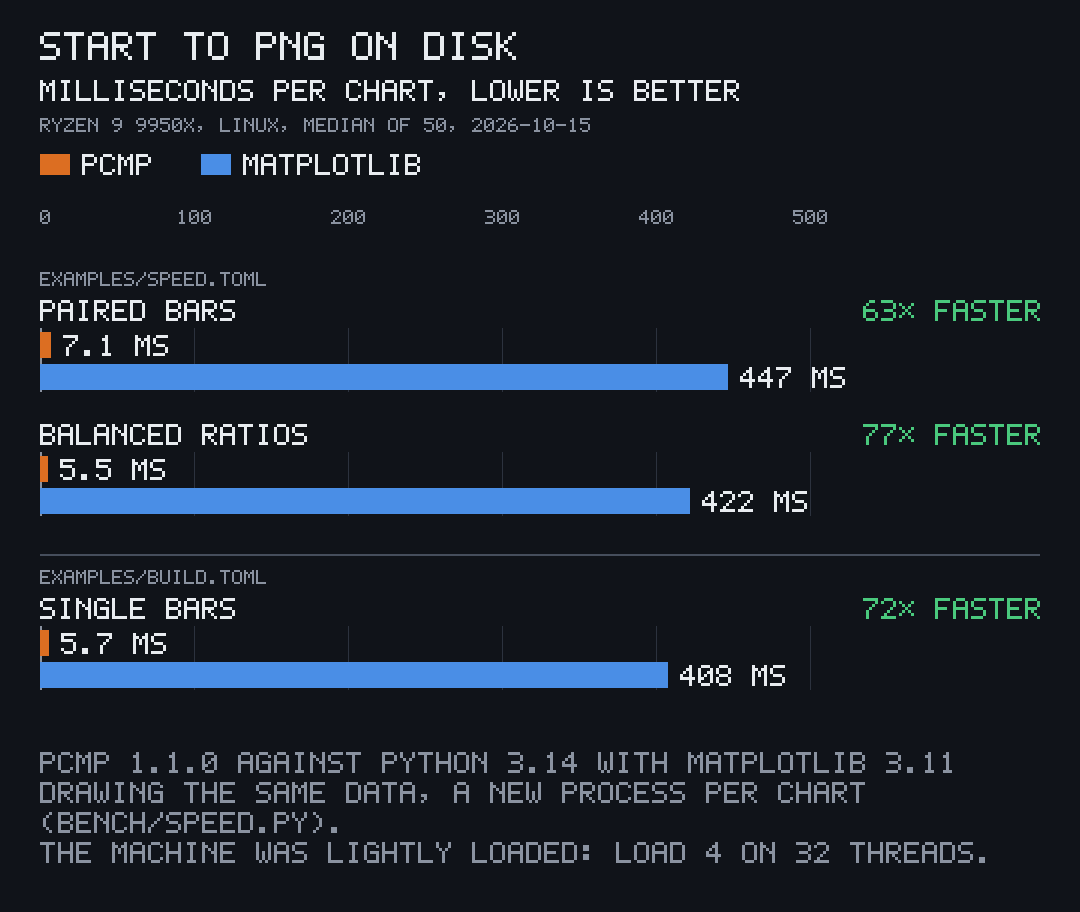
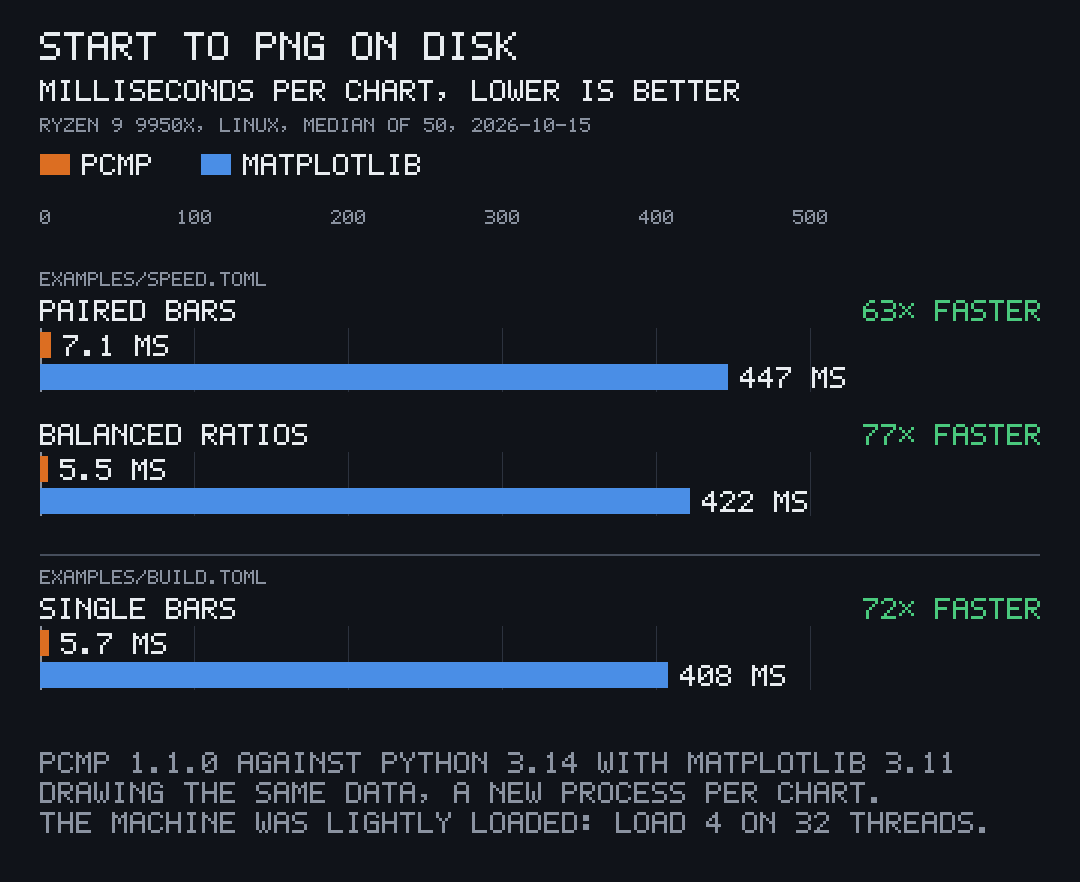
No Python: drop bench/speed.py and bench/matplotlib_chart.py
The matplotlib comparison was a one-off measurement; its numbers stay in
bench/pcmp-vs-matplotlib.toml and its charts. README, docs pages and NOTICE
no longer point to the scripts, and the bench chart's note no longer names
them. bin/gate, pci test --fast and bin/docs-bundle pass with python3
absent from PATH.

diff --git a/README.md b/README.md
@@ -134,18 +134,13 @@ The same charts from data built in Rust, with no command line and no clap ([the 
 
 ## Speed
 
-pcmp draws its own benchmark. [bench/speed.py](bench/speed.py) times pcmp drawing each chart kind, a new process per chart, 50 runs each, and takes the median; then it times Python 3.14 with matplotlib 3.11 drawing the same data as a similar dark 1080 px chart ([bench/matplotlib_chart.py](bench/matplotlib_chart.py)), the same way. [bench/pcmp-vs-matplotlib.toml](bench/pcmp-vs-matplotlib.toml) holds the numbers it printed, and pcmp drew them:
+pcmp draws its own benchmark. pcmp was timed drawing each chart kind, a new process per chart, 50 runs each, taking the median; then matplotlib 3.11 was timed drawing the same data as a similar dark 1080 px chart, the same way. [bench/pcmp-vs-matplotlib.toml](bench/pcmp-vs-matplotlib.toml) holds the numbers, and pcmp drew them:
 
 ![Paired bars, lower is better: start to PNG on disk, pcmp 7.1, 5.5 and 5.7 ms against matplotlib 447, 422 and 408 ms; 63×, 77× and 72× faster](docs/images/pcmp-vs-matplotlib-paired.png)
 
 ![The balanced ratio chart of the same numbers: pcmp 63×, 77× and 72× faster than matplotlib](docs/images/pcmp-vs-matplotlib-ratio.png)
 
-Most of matplotlib's time is Python and its import, but not all: in one run, drawing and saving after the import took 129 to 162 ms per chart, over twenty times pcmp's whole run. The matplotlib chart is the plainer of the two (no tags, no pixel font), which favours it. Peak memory was 12.9 MB for pcmp and 82.5 MB for matplotlib. The machine was lightly loaded while it ran (load 4 on 32 threads). To run it yourself, with matplotlib installed:
-
-```
-cargo build --release
-python3 bench/speed.py
-```
+Most of matplotlib's time is Python and its import, but not all: in one run, drawing and saving after the import took 129 to 162 ms per chart, over twenty times pcmp's whole run. The matplotlib chart is the plainer of the two (no tags, no pixel font), which favours it. Peak memory was 12.9 MB for pcmp and 82.5 MB for matplotlib. The machine was lightly loaded while it ran (load 4 on 32 threads). It was measured once, on 2026-10-15; the repository keeps the numbers, not the scripts that timed them.
 
 ## What it is
 
@@ -257,7 +252,7 @@ cargo build --release
 bin/gate
 ```
 
-`bin/gate` is the gate, on Linux, Windows and macOS: ShellCheck where it is installed, rustfmt, clippy with warnings as errors, and the tests, which include drawing the examples and comparing them pixel for pixel with the README's images. `bin/images` draws those again after a change to the look, and `bin/docs-bundle` builds the documentation pages from `docs/pages`, the command line's help, `cargo doc` and this CHANGELOG; each release carries them as `docs-vX.Y.Z.tar.gz`. `python3 bench/speed.py` measures pcmp against matplotlib ([Speed](#speed)); nothing else needs Python. On Windows it runs in Git Bash. The README's clip is a prec shot in `render/terminal.toml`, made a GIF by pcod from [pito-codecs](https://github.com/gmrdad82/pito-codecs) ([NOTICE](NOTICE)).
+`bin/gate` is the gate, on Linux, Windows and macOS: ShellCheck where it is installed, rustfmt, clippy with warnings as errors, and the tests, which include drawing the examples and comparing them pixel for pixel with the README's images. `bin/images` draws those again after a change to the look, and `bin/docs-bundle` builds the documentation pages from `docs/pages`, the command line's help, `cargo doc` and this CHANGELOG; each release carries them as `docs-vX.Y.Z.tar.gz`. On Windows it runs in Git Bash. The README's clip is a prec shot in `render/terminal.toml`, made a GIF by pcod from [pito-codecs](https://github.com/gmrdad82/pito-codecs) ([NOTICE](NOTICE)).
 
 ## Licence
 

diff --git a/docs/pages/guides/benchmark.md b/docs/pages/guides/benchmark.md
@@ -1,28 +1,15 @@
 ---
-title: Measure pcmp against matplotlib
-description: "Run the benchmark that times pcmp against matplotlib drawing the same data, and read its numbers."
+title: pcmp against matplotlib
+description: "How pcmp was timed against matplotlib drawing the same data, and its numbers."
 sidebar:
   order: 8
 ---
 
-pcmp draws its own benchmark. `bench/speed.py` in the repository times pcmp drawing each chart kind, then matplotlib drawing the same data as a similar dark 1080 px chart, and prints the numbers.
-
-## Run it
-
-On Linux or macOS, you need a clone of the repository, Rust 1.97 or newer, and Python with matplotlib installed:
-
-```
-git clone https://github.com/gmrdad82/pito-compare
-cd pito-compare
-cargo build --release
-python3 bench/speed.py
-```
-
-For each chart kind it starts a new process per chart, 50 times, and takes the median, for pcmp and for matplotlib alike. Nothing but the benchmark needs Python.
+pcmp draws its own benchmark. pcmp was timed drawing each chart kind, then matplotlib drawing the same data as a similar dark 1080 px chart. For each chart kind it started a new process per chart, 50 times, and took the median, for pcmp and for matplotlib alike. It was measured once; the repository keeps the numbers, not the scripts that timed them.
 
 ## What it measured
 
-On 2026-10-15, on an AMD Ryzen 9 9950X (32 threads) under Linux, with Python 3.14 and matplotlib 3.11, on a lightly loaded machine (load 4 on 32 threads). `bench/pcmp-vs-matplotlib.toml` holds the numbers it printed, and pcmp drew them:
+On 2026-10-15, on an AMD Ryzen 9 9950X (32 threads) under Linux, with matplotlib 3.11, on a lightly loaded machine (load 4 on 32 threads). `bench/pcmp-vs-matplotlib.toml` holds the numbers, and pcmp drew them:
 
 ![Paired bars, lower is better: start to PNG on disk, pcmp 7.1, 5.5 and 5.7 ms against matplotlib 447, 422 and 408 ms; 63×, 77× and 72× faster](../images/pcmp-vs-matplotlib-paired.png)
 

diff --git a/docs/pages/index.md b/docs/pages/index.md
@@ -40,5 +40,5 @@ It comes two ways: `pcmp`, the command line, and `pito_compare`, a Rust library 
 - [Show text or your own ratio](guides/texts-and-ratios/) in place of a value.
 - [Read a refusal](guides/refusals/): what pcmp says when a data file is wrong.
 - [Draw from Rust](guides/library/) with the library.
-- [Measure pcmp against matplotlib](guides/benchmark/).
+- [See pcmp against matplotlib](guides/benchmark/).
 - Reference: [the command line](reference/cli/), [the data format](reference/formats/), [the API](api/pito_compare/index.html), [the changelog](changelog/).
